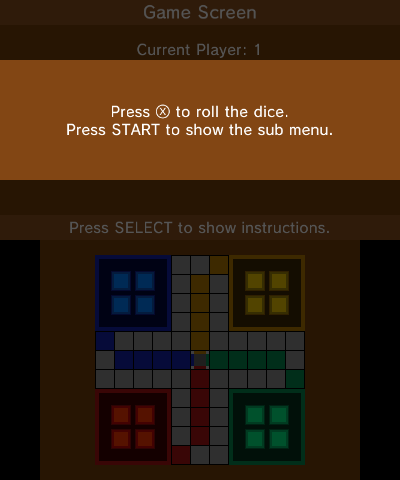
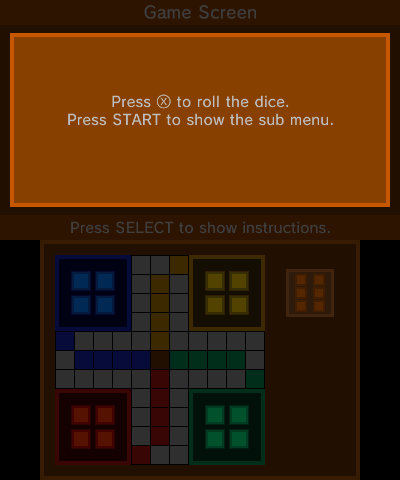
Update Ludo3DS Screenshots lol.
It was v0.1.0 before.. now it's v0.4.0.

diff --git a/pages/projects/ludo3ds.md b/pages/projects/ludo3ds.md
@@ -33,11 +33,14 @@ Here you'll find screenshots to Ludo3DS's. LudoNDS is pretty similar to it anywa
 ### Game Screen
 ![](/assets/images/ludo3ds/instructions1_en.png) ![](/assets/images/ludo3ds/instructions2_en.png) ![](/assets/images/ludo3ds/game_screen_en.png) ![](/assets/images/ludo3ds/sub_menu_en.png)
 
+### Game Settings
+![](/assets/images/ludo3ds/gameSettings1_en.png) ![](/assets/images/ludo3ds/gameSettings2_en.png)
+
 ### Rules Overlay
 ![](/assets/images/ludo3ds/rules_en.png)
 
 ### Splash Overlay
-![](/assets/images/ludo3ds/splash_en.png)
+![](/assets/images/ludo3ds/splash.png)
 
 ### Language Selection Overlay
 ![](/assets/images/ludo3ds/language_overlay_en.png)
